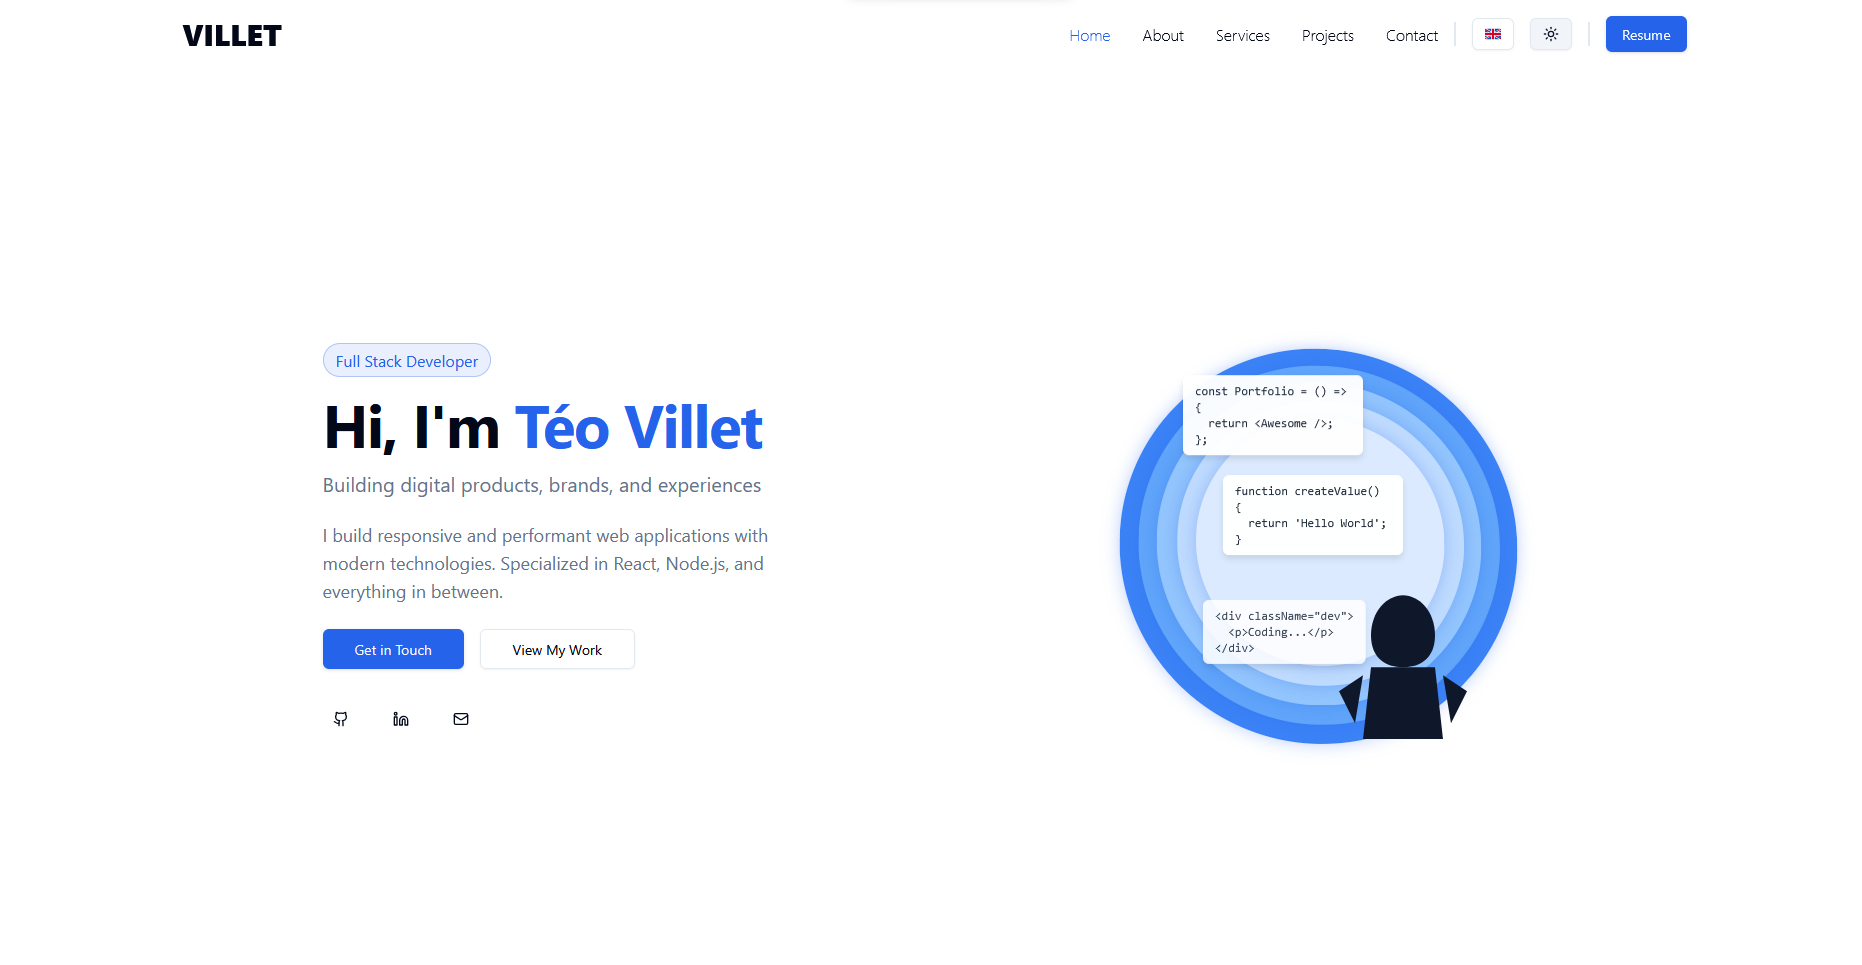
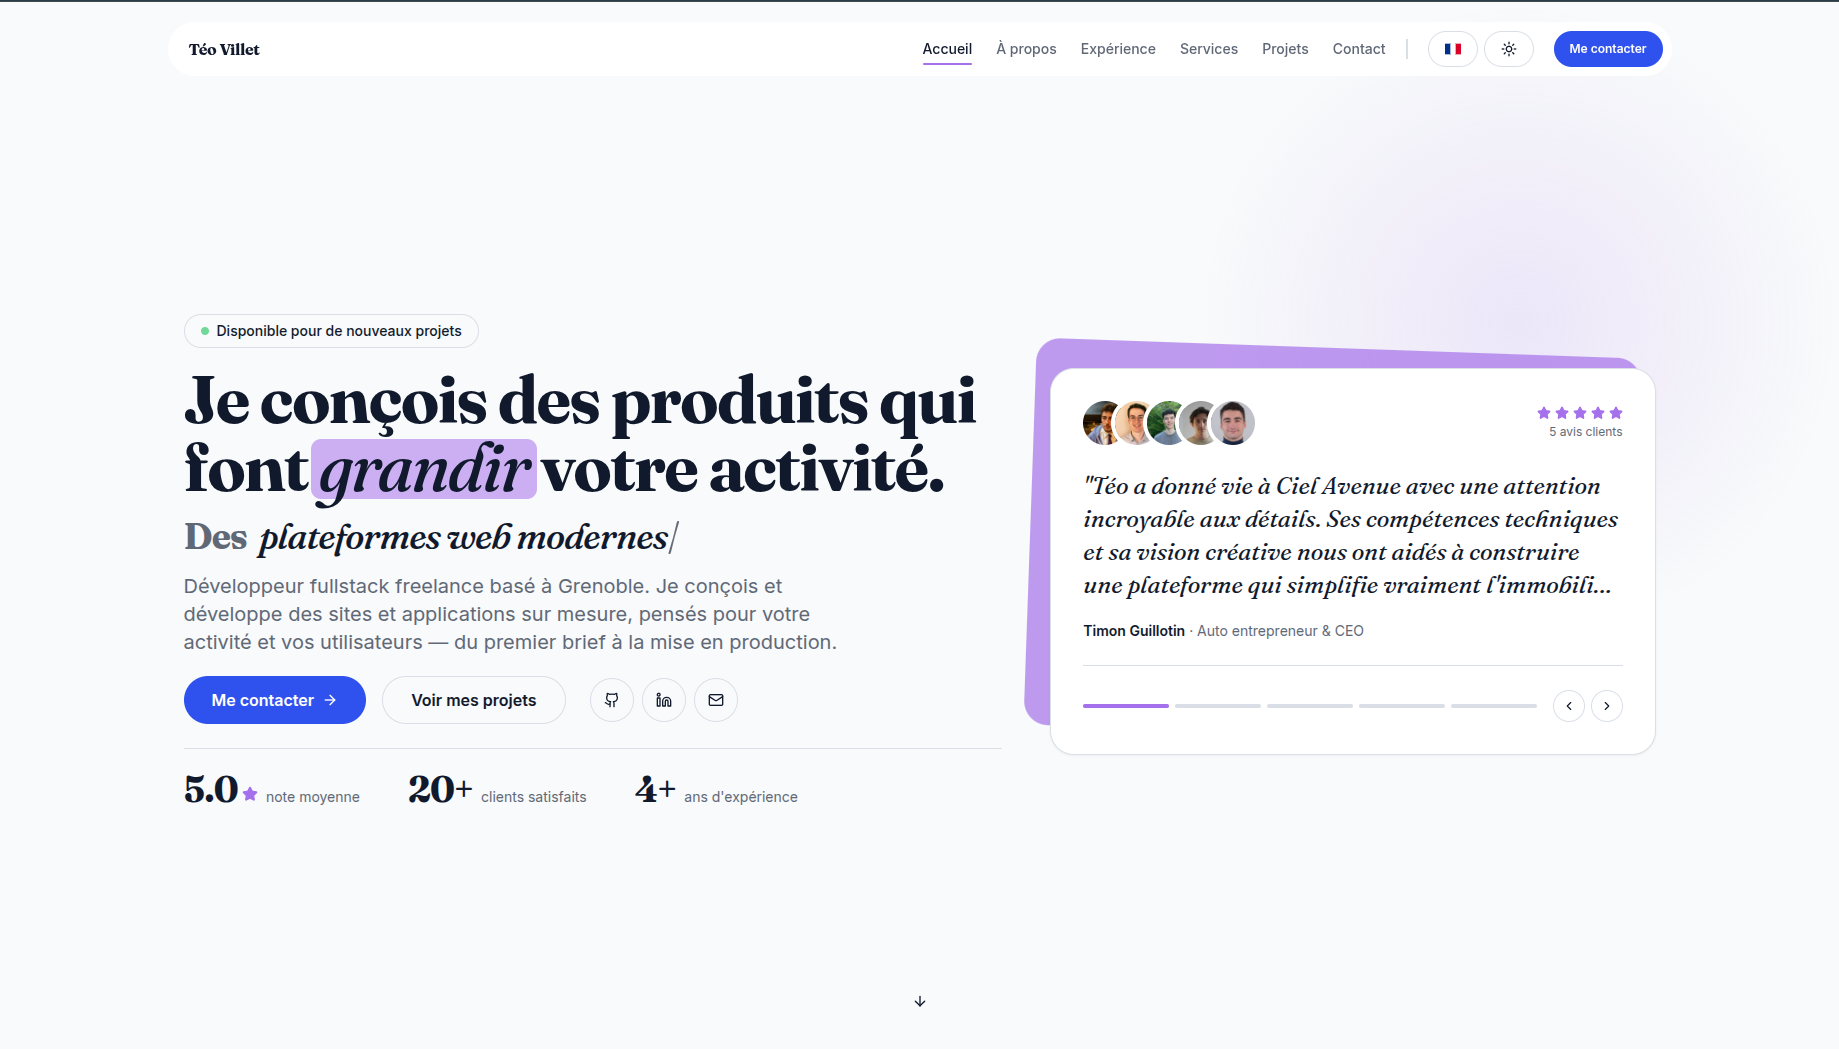
Refresh the portfolio project image and case study
Replace the screenshot with the current homepage and fill in the
challenge, approach, stack and key features in French and English.

diff --git a/server/src/seed/seedProjects.ts b/server/src/seed/seedProjects.ts
@@ -276,7 +276,7 @@ const projects = [
     slug: "portfolio",
     title: "Portfolio",
     image: "/images/projects/portfolio.png",
-    stack: ["React", "TailwindCSS", "Framer Motion"],
+    stack: ["React", "TypeScript", "TailwindCSS", "Framer Motion", "i18next", "Node.js", "Express", "MongoDB", "Docker"],
     status: ProjectStatus.DONE,
     order: 8,
     liveLink: "https://www.teovillet.fr",
@@ -292,17 +292,22 @@ const projects = [
       en: "My personal portfolio, built as a showcase of my work and of how I approach a project — from the first brief to production, with the same care I bring to client work.",
     },
     challenge: {
-      fr: "Lorem ipsum dolor sit amet, consectetur adipiscing elit. Ut enim ad minim veniam, quis nostrud exercitation ullamco laboris nisi ut aliquip ex ea commodo consequat.",
-      en: "Lorem ipsum dolor sit amet, consectetur adipiscing elit. Ut enim ad minim veniam, quis nostrud exercitation ullamco laboris nisi ut aliquip ex ea commodo consequat.",
+      fr: "Un portfolio de freelance n'est pas une simple galerie : il doit convaincre un prospect en quelques secondes, rassurer avec des preuves concrètes et l'amener jusqu'à la prise de contact. Il fallait donc un site qui reflète mon niveau d'exigence, disponible en français et en anglais, rapide et bien référencé, tout en restant simple à faire évoluer sans retoucher le code à chaque nouveau projet.",
+      en: "A freelance portfolio isn't just a gallery: it has to win over a prospect in seconds, build trust with real proof and guide them all the way to getting in touch. I needed a site that reflects the standard I hold myself to, available in French and English, fast and well indexed, while staying easy to update without touching the code every time I ship a new project.",
     },
     approach: {
-      fr: "Duis aute irure dolor in reprehenderit in voluptate velit esse cillum dolore eu fugiat nulla pariatur. Excepteur sint occaecat cupidatat non proident.",
-      en: "Duis aute irure dolor in reprehenderit in voluptate velit esse cillum dolore eu fugiat nulla pariatur. Excepteur sint occaecat cupidatat non proident.",
+      fr: "J'ai construit le site autour du parcours d'un client : une accroche claire avec avis et chiffres clés dès l'accueil, des packages aux prix transparents, puis une page contact avec prise de rendez-vous directe. Côté technique, une SPA React + TypeScript pour l'interface et les animations, et une API Node/Express avec MongoDB qui alimente les études de cas, gérées depuis un espace d'administration sécurisé. Le tout est conteneurisé avec Docker et déployé sur Dokploy.",
+      en: "I built the site around a client's journey: a clear hook with reviews and key figures right on the homepage, packages with transparent pricing, then a contact page with direct call booking. On the technical side, a React + TypeScript SPA handles the interface and animations, and a Node/Express API backed by MongoDB serves the case studies, managed from a secure admin area. Everything is containerised with Docker and deployed on Dokploy.",
     },
     features: [
+      { fr: "Prise de rendez-vous intégrée avec calendrier et créneaux", en: "Built-in call booking with a calendar and time slots" },
+      { fr: "Packages de services avec tarifs transparents, reliés au formulaire de contact", en: "Service packages with transparent pricing, linked to the contact form" },
+      { fr: "Carrousel d'avis clients et chiffres clés dès l'accueil", en: "Client review carousel and key figures right on the homepage" },
       { fr: "Études de cas détaillées pour chaque projet", en: "Detailed case studies for every project" },
-      { fr: "Design responsive et compatible mode sombre", en: "Responsive design with dark mode support" },
-      { fr: "Disponible en français et en anglais", en: "Available in French and English" },
+      { fr: "Espace admin sécurisé (JWT) pour gérer les projets sans toucher au code", en: "Secure admin area (JWT) to manage projects without touching the code" },
+      { fr: "Bilingue français / anglais", en: "Bilingual French / English" },
+      { fr: "Design responsive, mode sombre et animations Framer Motion", en: "Responsive design, dark mode and Framer Motion animations" },
+      { fr: "SEO soigné : balises meta, sitemap et robots.txt", en: "Solid SEO: meta tags, sitemap and robots.txt" },
     ],
   },
 ];
